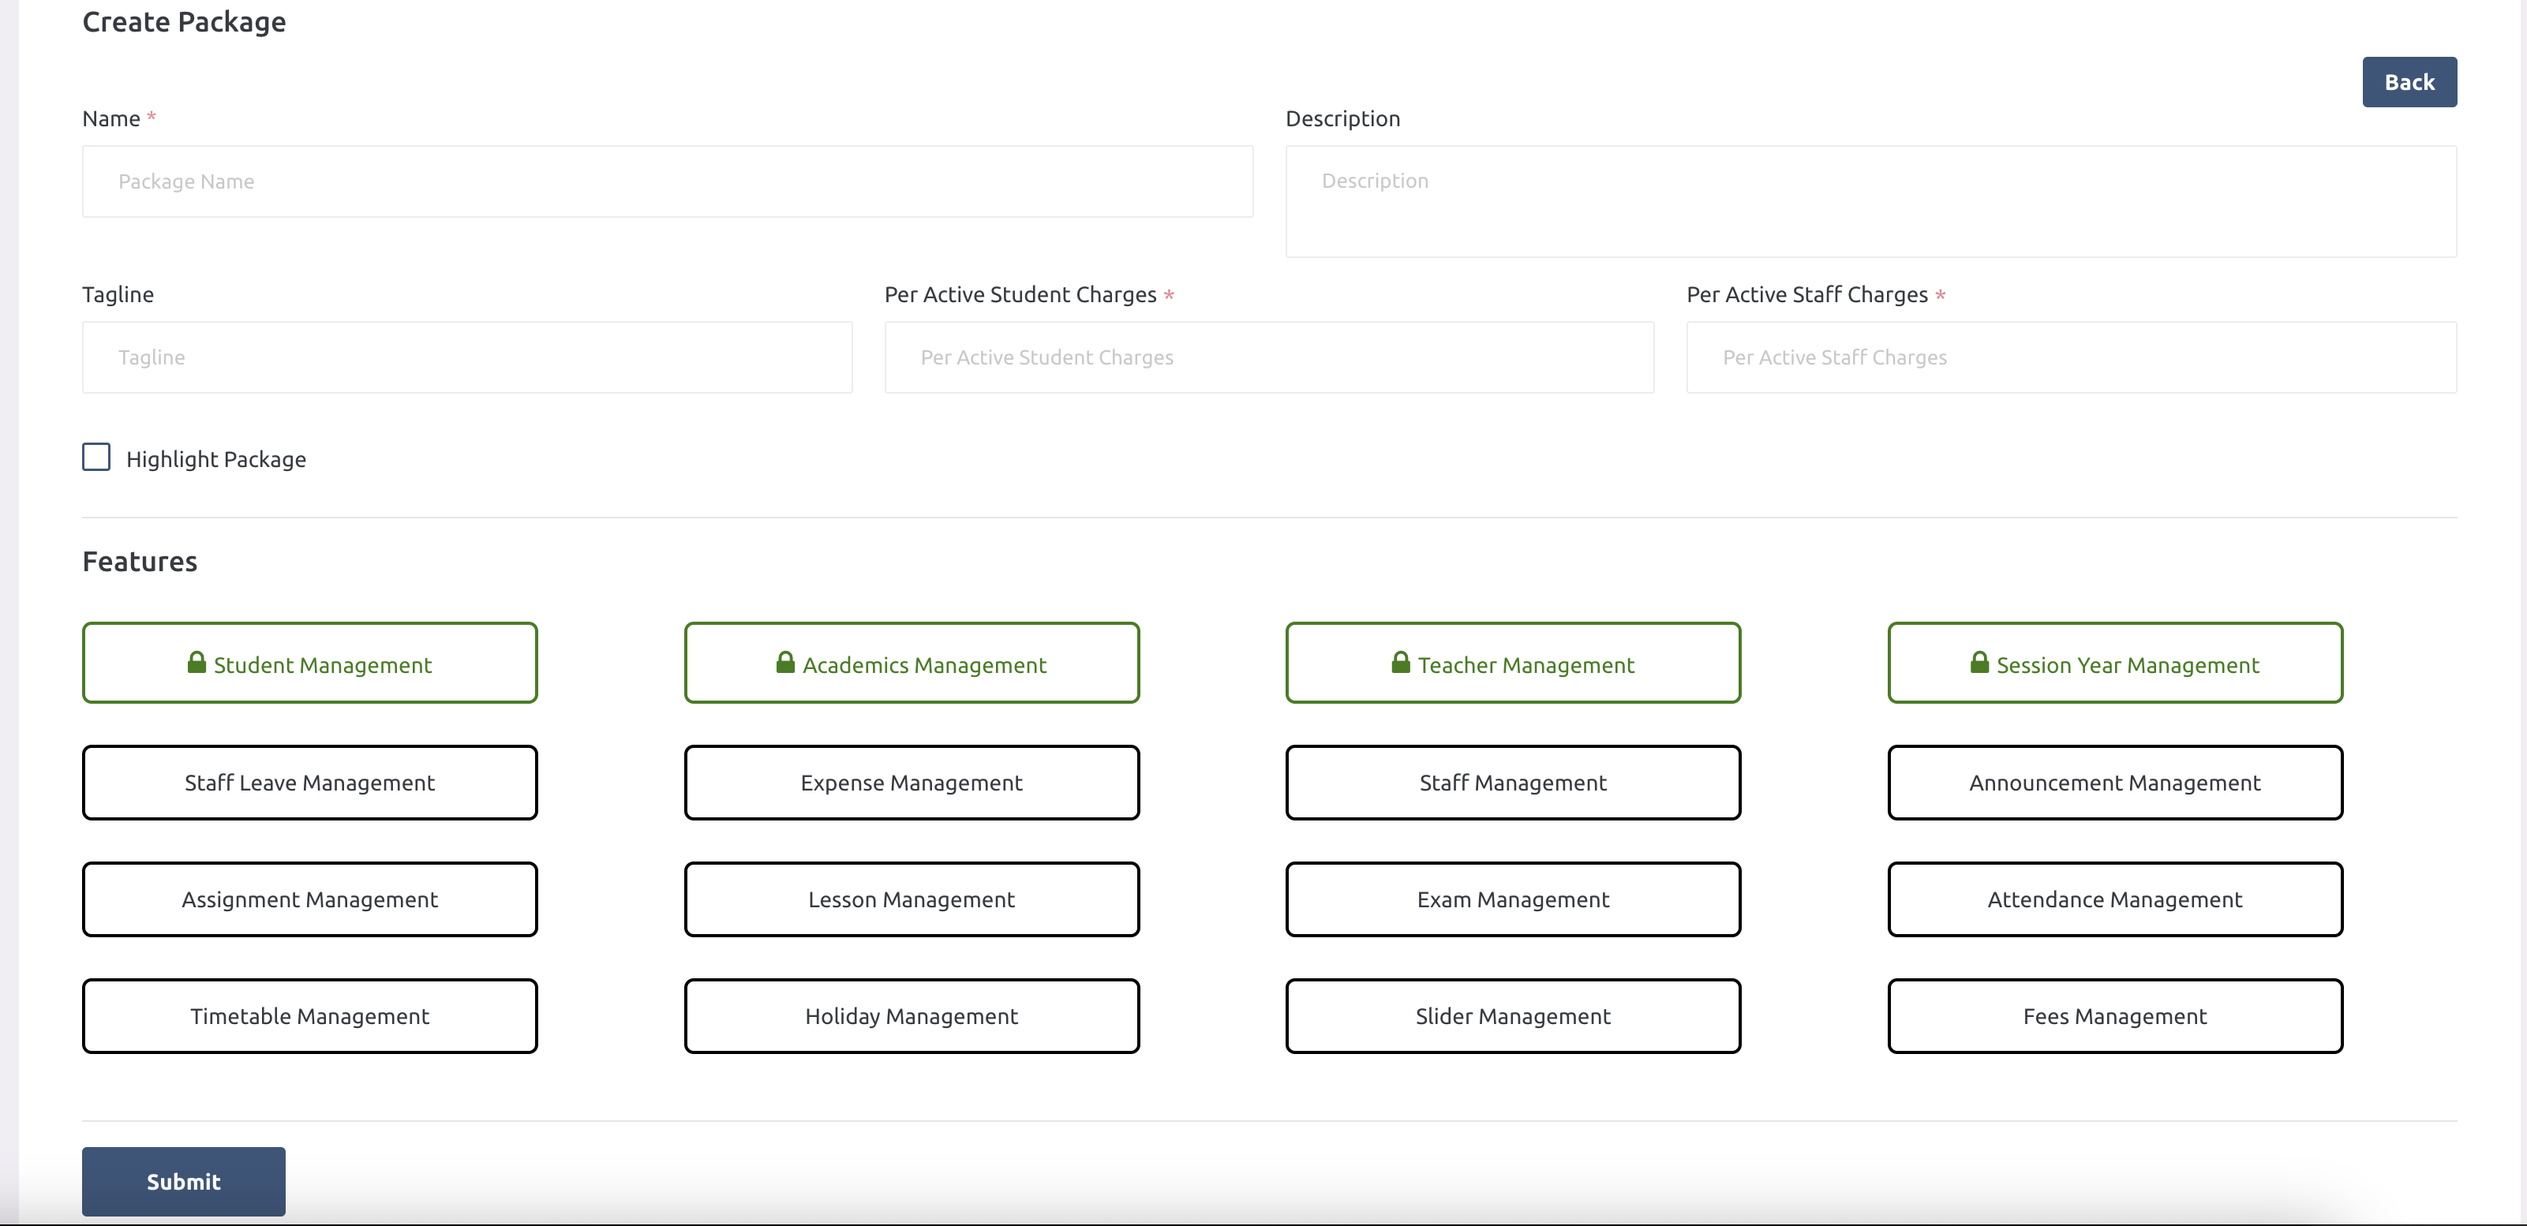
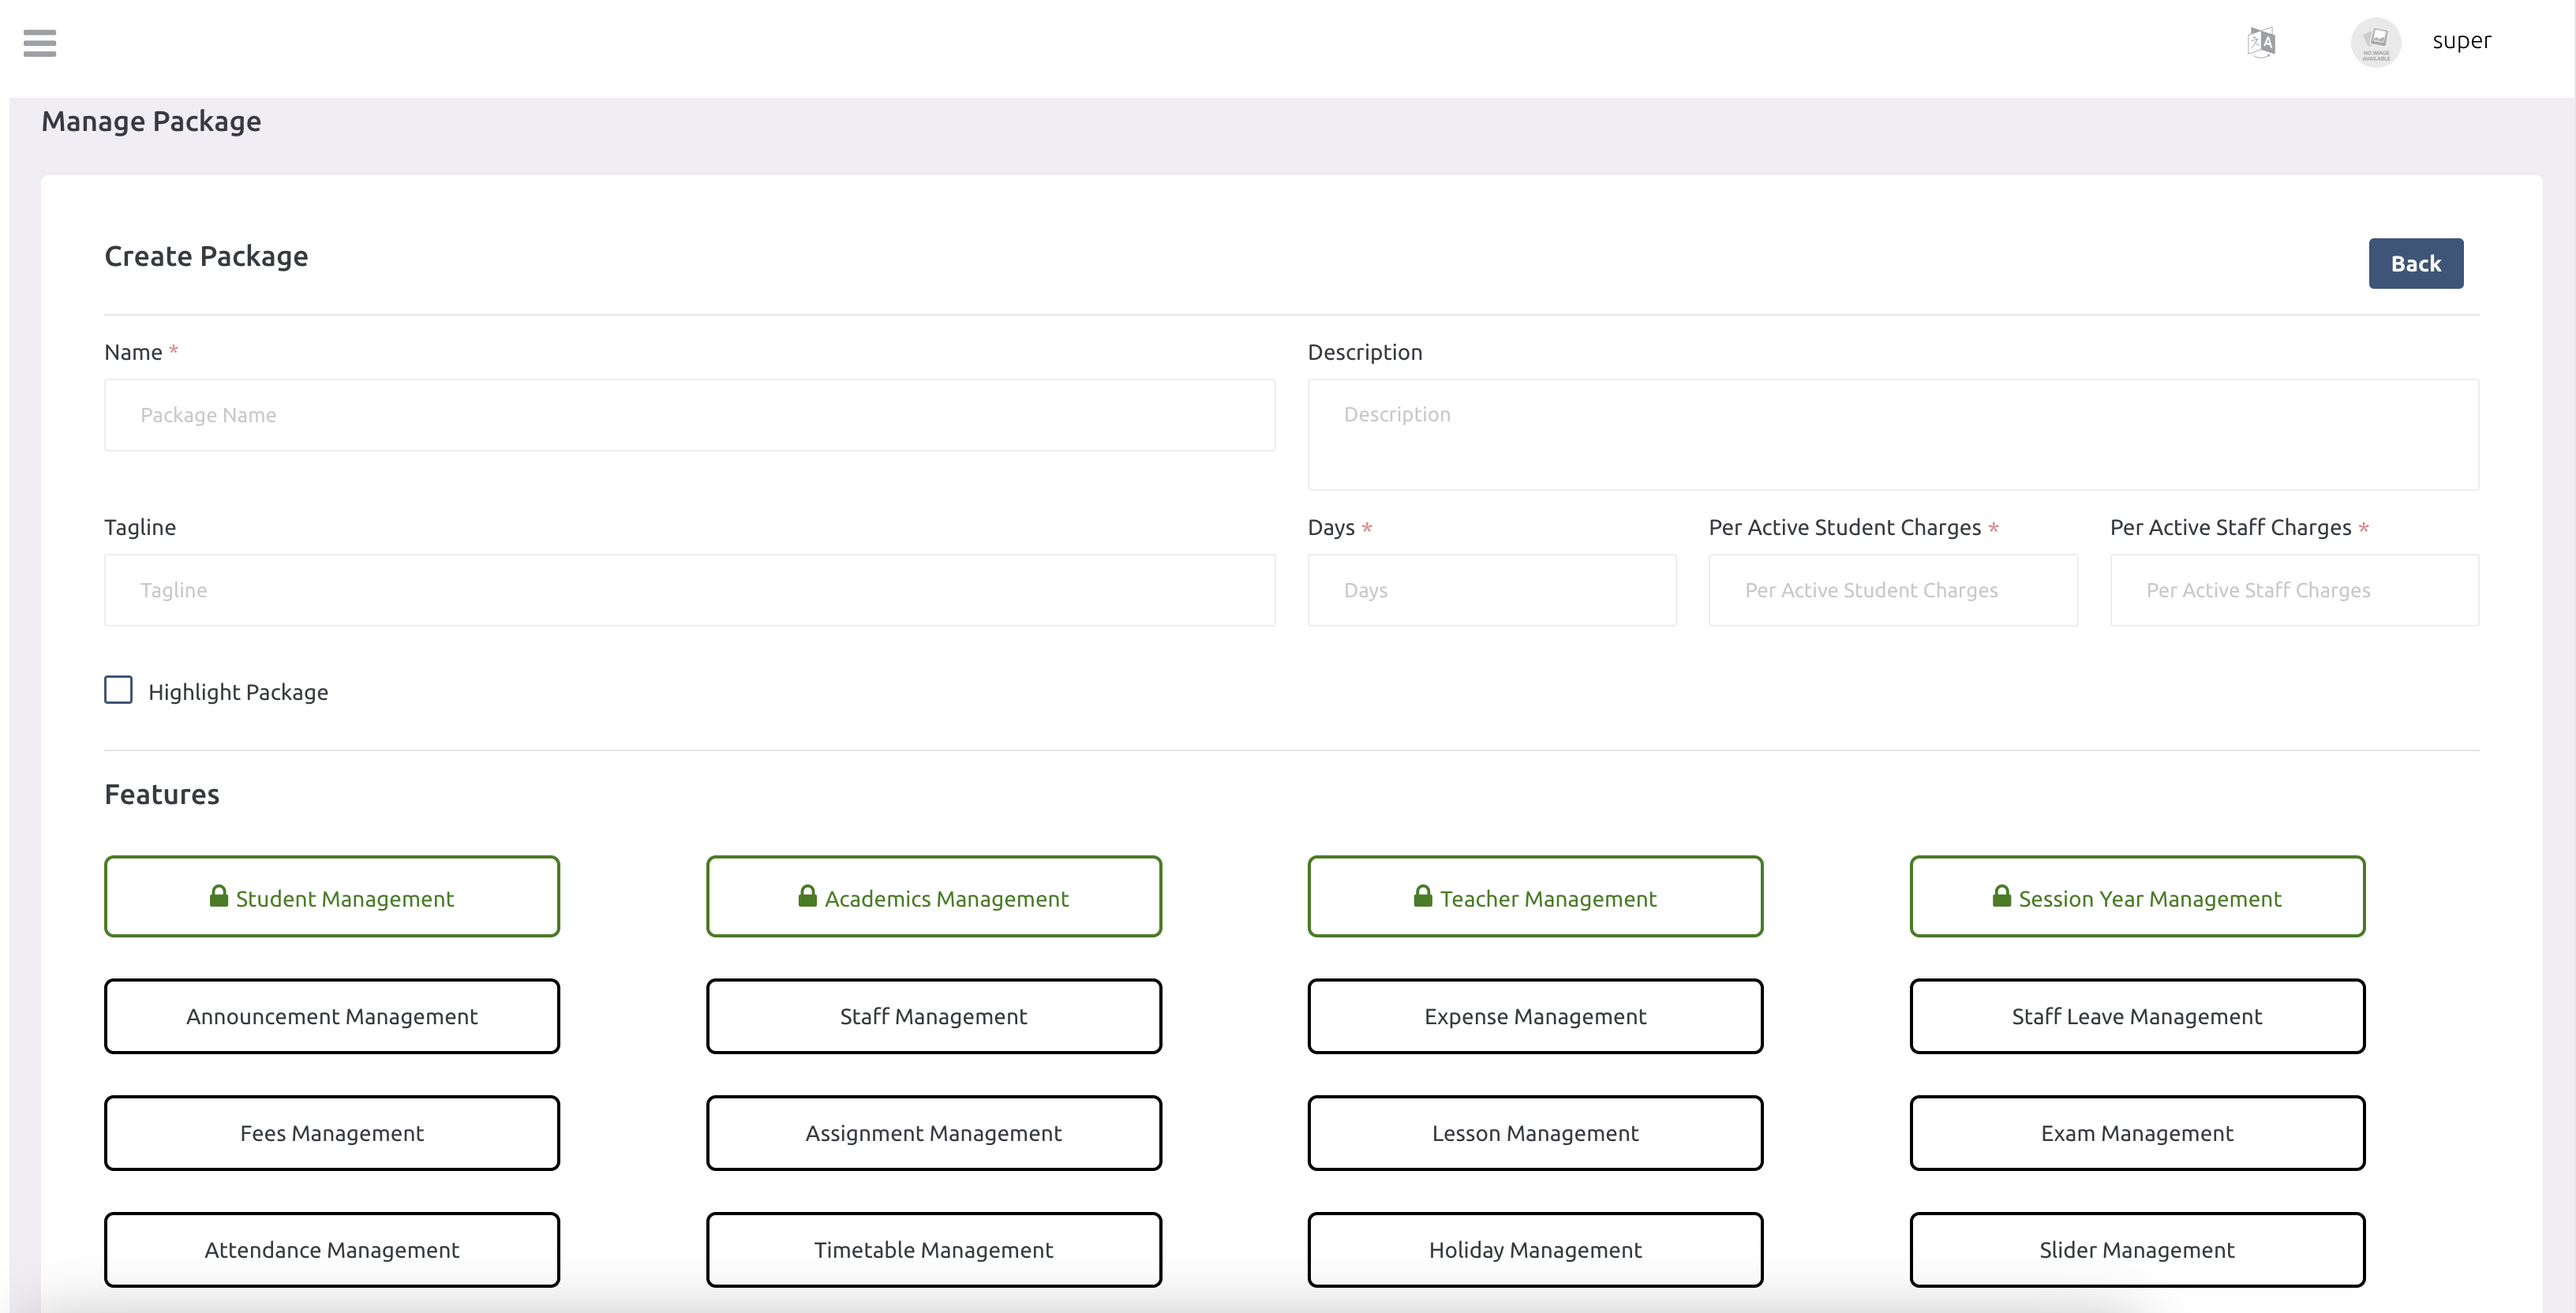
added V.1.2.0 features

diff --git a/index.html b/index.html
@@ -65,6 +65,10 @@
                         <li>
                             <a href="#subscription">Subscription <span class="fa fa-arrow-right"></span></a>
                         </li>
+                        <li>
+                            <a href="#subscription-transaction">Subscription Transaction <span
+                                    class="fa fa-arrow-right"></span></a>
+                        </li>
 
                         <li class='sub-menu'><a>Staff management<i class='fa fa-caret-down right'></i></a>
                             <ul>
@@ -75,6 +79,14 @@
 
                         <li>
                             <a href="#faqs">Faqs <span class="fa fa-arrow-right"></span></a>
+                        </li>
+
+
+                        <li class='sub-menu'><a>Web settings<i class='fa fa-caret-down right'></i></a>
+                            <ul>
+                                <li><a href='#generalSettings'>General Settings</a></li>
+                                <li><a href='#featureSections'>Feature Sections</a></li>
+                            </ul>
                         </li>
 
                         <li class='sub-menu'><a>System settings <i class='fa fa-caret-down right'></i></a>
@@ -251,6 +263,12 @@
                     </li>
                     <br>
                     <li>
+                        <h2> Super admin can assign the package to the school if school does not have any active
+                            package.
+                        </h2>
+                    </li>
+                    <br>
+                    <li>
                         <h2> Super admin can activate/deactivate the school. If school is deactive then students,staffs
                             can not login in the system.
                         </h2>
@@ -306,6 +324,9 @@
                 <br />
                 <img src="images/list-packages.png" alt="e-School Saas">
                 <br />
+
+                <img src="images/edit-package.png" alt="e-School Saas">
+                <br />
                 <br />
                 <ul>
 
@@ -324,8 +345,28 @@
                         </h2>
                     </li>
 
+                    <br />
+                    <li>
+                        <h2>
+                            Super admin can update the package details. If super admin update the duration of the
+                            package it will be reflected only for the new subscribed schools.
+                        </h2>
+                    </li>
+                    <br />
+                    <li>
+                        <h2>
+                            Super admin can update the features included in the package, whether those features should
+                            reflect for all the subscribed schools instantly or not that will be decided
+                            by super admin.
+                        </h2>
+                    </li>
 
                 </ul>
+
+                <br />
+
+
+
             </section>
 
             <!-- Add-ons-->
@@ -411,6 +452,27 @@
                 </ul>
             </section>
 
+            <!--Subscription Transaction-->
+
+            <section class="section html-structure" id="subscription-transaction">
+                <div class="sec-title">
+                    <span class="icon fa fa-th-large"></span>
+                    <h2>Subscription Transaction</h2>
+                </div>
+                <br />
+                <img src="images/subscription-transaction.png" alt="e-School Saas">
+                <br />
+                <br />
+                <ul>
+                    <li>
+                        <h2>
+                            Super admin can view all the transaction made by schools here
+                        </h2>
+                    </li>
+                </ul>
+            </section>
+
+
             <!-- Role permissions -->
             <section class="section html-structure" id="rolePermission">
                 <div class="sec-title">
@@ -485,6 +547,59 @@
                         </h2>
                     </li>
                 </ul>
+            </section>
+
+            <!--Web settings -> General settings -->
+            <section class="section html-structure" id="generalSettings">
+                <div class="sec-title">
+                    <span class="icon fa fa-th-large"></span>
+                    <h2>General settings</h2>
+                </div>
+                <br />
+
+                <img src="images/web-general-settings-1.png" alt="e-School Saas">
+                <br />
+                <img src="images/web-general-settings-2.png" alt="e-School Saas">
+                <br />
+                <img src="images/web-general-settings-3.png" alt="e-School Saas">
+                <br />
+                <img src="images/web-general-settings-4.png" alt="e-School Saas">
+                <br />
+                <br />
+                <ul>
+                    <li>
+                        <h2>
+                            Super admin can mange the colors, banner images, about us, footer and other content of the
+                            landing page webpage.
+                        </h2>
+                    </li>
+                </ul>
+
+
+            </section>
+
+            <!--Web settings -> Feature sections -->
+            <section class="section html-structure" id="featureSections">
+                <div class="sec-title">
+                    <span class="icon fa fa-th-large"></span>
+                    <h2>Feature sections</h2>
+                </div>
+                <br />
+
+                <img src="images/create-web-settings-feature-section.png" alt="e-School Saas">
+                <br />
+                <img src="images/list-web-settings-feature-section.png" alt="e-School Saas">
+                <br />
+                <br />
+                <ul>
+                    <li>
+                        <h2>
+                            Super admin can manage highlighted features of the system here.
+                        </h2>
+                    </li>
+                </ul>
+
+
             </section>
 
             <!-- App settings (System settings) -->
@@ -569,12 +684,7 @@
                 <br />
                 <br />
                 <ul>
-                    <li>
-                        <h2>
-                            Billing cycle days will be same for every packages.
-                        </h2>
-                    </li>
-                    <br />
+
                     <li>
                         <h2>
                             Additional billing days will give extra days after package expiration to school to pay the
